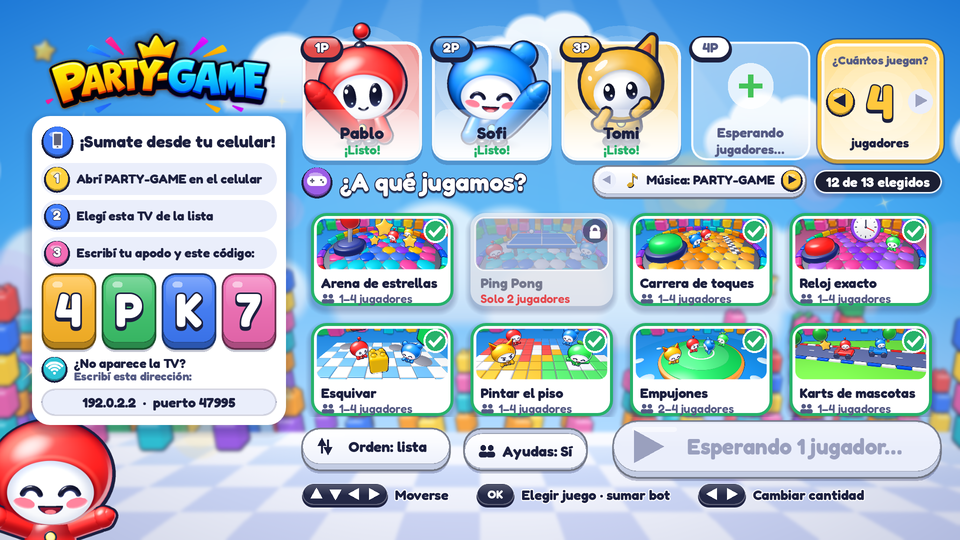
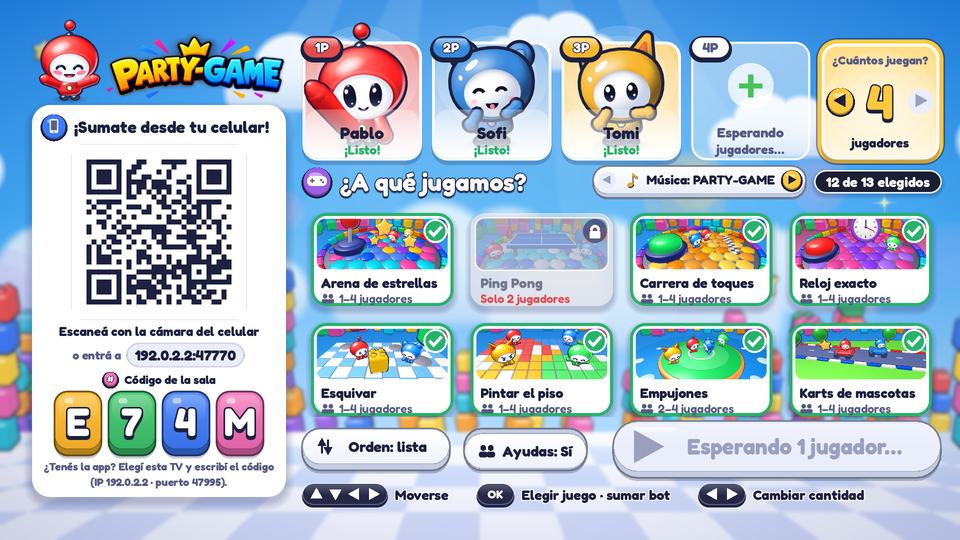
Docs del control web: ADR 0022, protocolo, firewall, seguridad, arquitectura y capturas
- docs/adr/0022-control-web.md: por qué la TV sirve la página, alternativas
  (APK, PWA, export web de Godot), seguridad, límites y verificación.
- PROTOCOL.md (transporte HTTP y cómo la página obtiene puerto y código),
  BUILD.md (jugar sin instalar nada, puertos 47770–47774 en el firewall),
  SECURITY.md (servidor HTTP, CSP, Host), ARCHITECTURE.md, PERFORMANCE.md,
  README, CLAUDE.md y skills diseno-tv / nuevo-layout.
- docs/img: lobby con el QR y capturas del control web en Chromium
  emulando iPhone (apaisado y vertical) desde tools/web_e2e.mjs.

Claude-Session: https://claude.ai/code/session_016xnHVUnW38TmAZSdvZGH7C

diff --git a/docs/adr/0022-control-web.md b/docs/adr/0022-control-web.md
@@ -1,0 +1,38 @@
+# ADR 0022 · Control web servido por la propia TV (QR, sin instalar nada)
+
+- **Estado:** Aceptada
+- **Fecha:** 2026-10-03
+
+## Contexto
+
+Para jugar, cada invitado tenía que instalar la app del celular: un APK de ~60 MB, solo Android, con "orígenes desconocidos" habilitado; en iPhone directamente no se podía. Para una juntada con 2–4 invitados y sus propios celulares (mezcla de Android y iPhone) eso es una barrera demasiado alta: la prueba real del viernes 9/10 necesita que **escanear un QR alcance**, como en Jackbox o AirConsole.
+
+La TV puede ser una PC o una Google TV con el APK como host. La red local puede no tener internet.
+
+## Decisión
+
+La **TV sirve por HTTP una página web que hace de control** y que habla **el mismo protocolo v2** (`docs/PROTOCOL.md`) por WebSocket. La app Godot del celular sigue existiendo y funcionando igual: conviven.
+
+1. **Servidor HTTP mínimo en la TV** (`host/network/web_server.gd`, `WebControllerServer`): un `TCPServer` propio en `Protocol.HTTP_PORT` (47770; si está ocupado, 47771–47774). Solo `GET`/`HEAD` de una **lista blanca fija** de archivos (`ROUTES`), más la ruta del QR (`/K7QX`), que sirve la misma página. Nunca arma rutas de disco con lo que manda el cliente. Cabeceras: `Content-Type` correcto, `X-Content-Type-Options: nosniff`, `Content-Security-Policy` (`default-src 'none'`, recursos solo `'self'`, `connect-src ws://<IP del encabezado Host, validada>:<puerto real del WebSocket>`), `Cache-Control` (`no-cache` para html/js/css, una semana para fuentes e imágenes), `Connection: close`. Límites: cabecera ≤ 4 KB (431), 5 s para mandarla, 16 conexiones a la vez, se cierra después de responder. Poll no bloqueante: lee y escribe de a pedazos en `_process`; sin conexiones cuesta un `is_connection_available()` por cuadro.
+2. **Enlace del QR**: `http://192.168.1.34:47770/K7QX` (`Protocol.web_join_url`). El código va en la ruta (sin `?`/`=`) para que el QR quede en **versión 3** (29 módulos) y se lea desde el sillón. El **puerto real del WebSocket** (puede caer en 47778–47781) **no viaja en el enlace**: la TV reemplaza `{{WS_PORT}}` en `index.html` al servirla y el JS lo lee de `<meta name="pg-ws-port">`. Lo que viaja es lo que ya se ve en la TV: estar frente a ella = ver el código.
+3. **Cliente web** (`web/index.html`, `controller.css`, `controller.js`): sin frameworks ni nada externo. Unirse (apodo guardado en `localStorage`, código prellenado desde la ruta, fichas de colores como la app), espera "¡Mirá la TV!" con selector de mascota (colores ocupados según `appearance.taken`) y resultado propio (`standing`), y los layouts `joystick`, `slider_h`, `one_button` y `joystick_ab` dibujados en `canvas` con la misma semántica que `controller/layouts/` (joystick flotante, zona muerta 0,12, 30 Hz solo si cambió + keepalive de 250 ms, multitáctil con un dedo por pieza). Reconexión automática con el token (`localStorage`, backoff 0,5→5 s, 8 intentos; al volver a la pestaña reintenta ya; al recargar la página vuelve sola a su lugar). Wake Lock, `navigator.vibrate` y sonidos cortos con WebAudio para `feedback`; "Salir" manteniendo apretado 1 s. En vertical también se juega (las piezas bajan a la mitad de abajo). Objetivo: iPhone Safari 15+ y Chrome Android.
+4. **Seguridad del cliente**: todo texto de la red va con `textContent` (equivalente a la regla "nunca BBCode"); cada mensaje entrante se valida y recorta como `Protocol.parse_*` (tipos, rangos, NaN, listas blancas de layouts, fases y tipos de feedback); lo inválido se descarta. La TV sigue siendo autoritativa: el control solo manda `axis`/`btn` (y `look` en el lobby).
+5. **Lobby de la TV**: el QR es el héroe de la columna "¡Sumate desde tu celular!" (`host/ui/widgets/join_qr.gd`): se codifica **una vez** por enlace (`addons/pmc_qr`, ~4 ms con la textura) a una textura de un píxel por módulo dibujada con filtro *nearest* a píxeles enteros por módulo (10 px a 1080p). Debajo, "Escaneá con la cámara del celular", la dirección corta para escribirla a mano (`192.168.1.34:47770`), el código en fichas y una línea para quien tiene la app. Si la TV tiene varias IP, se elige la más probable para los celulares (`WebControllerServer.sort_lan_ips`: 192.168.x, 10.x, 172.16–31.x —WSL/Hyper-V/VirtualBox—, el resto) y las demás se muestran en chico.
+6. **Archivos en el export**: viven en `res://web/` y se leen con `FileAccess` (funciona desde el proyecto y desde el APK con `web/*` en el `include_filter`). Las fuentes e imágenes van con extensión **`.bin`** (`fredoka-bold.woff2.bin`, `logo.png.bin`): Godot importaría un `.woff2` o un `.png` y el original no viajaría en el export. Además, `tools/build_web_bundle.gd` genera `host/network/web_bundle.gd` con **todos los archivos embebidos en base64**: un script siempre viaja en el APK, así que el servidor cae a esa copia si `res://web/` no está. El test `test_web_bundle_in_sync` falla si el bundle quedó viejo.
+
+## Alternativas descartadas
+
+- **Solo el APK**: 60 MB, Android únicamente, orígenes desconocidos, nada en iPhone. Queda como opción para quien ya la tiene (misma TV, mismos jugadores).
+- **PWA / página alojada en internet**: la red del living puede no tener internet, y una página en `https://` no puede abrir `ws://` hacia la TV (contenido mixto). Servirla desde la TV en `http://` evita las dos cosas.
+- **Export web de Godot del control**: ~30 MB de wasm, arranque lento en celulares viejos, problemas en Safari con hilos y audio; el control es una pantalla simple que en HTML/JS pesa 160 KB.
+- **Pasar el código por `?r=` o un `/info.json`**: el código en la ruta hace el QR más chico y el puerto inyectado en la página evita un pedido extra.
+- **Librería HTTP externa o `HTTPServer` de GDExtension**: un servidor de 300 líneas sin dependencias es más fácil de auditar y de exportar a Android.
+
+## Consecuencias
+
+- Hay un puerto más que abrir en el firewall de la PC (TCP 47770–47774), ver [BUILD.md](../BUILD.md).
+- El protocolo **no cambió** (sigue en `VERSION` 2): el control web es un cliente más. `docs/PROTOCOL.md` suma la sección de transporte HTTP.
+- La página solo ofrece lo que el navegador permite: en iPhone no vibra, Wake Lock requiere Safari 16.4+ (antes, la pantalla puede apagarse si el juego no se toca), y los `ws://` solo funcionan porque la página también es `http://` (nunca servir el control por `https` sin pasar el WebSocket a `wss`).
+- Si se cambia algo en `web/`, hay que regenerar el bundle (`godot --headless --path . -s res://tools/build_web_bundle.gd`); el test lo recuerda.
+- Las mascotas del control web son una versión dibujada en canvas (cabeza, cuerpo y el accesorio de cada estilo), no las 3D horneadas: alcanza para que cada jugador se reconozca (color + 1P–4P + accesorio). Servir PNG de las 3D queda para después si vale la pena (pesarían más que todo el resto).
+- Verificación: `tests/run_tests.gd` (servidor, enlace, bundle, lobby, HostMain) y `tools/web_e2e.mjs` (Chromium emulando iPhone/Pixel contra la TV real, toques multitáctiles, reconexión y dos rondas). El QR de la captura de la TV se decodificó con dos lectores independientes (OpenCV y jsQR), también reducido a 720p y 480p.

diff --git a/docs/ARCHITECTURE.md b/docs/ARCHITECTURE.md
@@ -3,18 +3,22 @@
 ## Visión general
 
 ```
-┌──────────────┐   WebSocket (Wi-Fi local)   ┌───────────────────────────────┐
-│ Celular 1..4 │ ──── input (30/seg) ──────► │ TV · HostMain                  │
-│ ControllerMain│ ◄─── layout / fase ──────── │  ├─ HostServer  (red, validación)│
-└──────────────┘                              │  ├─ DiscoveryBeacon (anuncio UDP)│
-       ▲                                      │  ├─ Tournament (puntos, rondas)  │
-       │                                      │  ├─ BotDriver (bots en la TV)    │
-       │                                      │  ├─ Pantallas (host/ui/)         │
-       │                                      │  └─ MiniGame activo (lógica)     │
-       └──────── anuncio UDP broadcast ────── └───────────────────────────────┘
+┌────────────────────┐   WebSocket (Wi-Fi local)   ┌─────────────────────────────────────┐
+│ Celular 1..4       │ ──── input (30/seg) ──────► │ TV · HostMain                        │
+│  app ControllerMain│ ◄─── layout / fase ──────── │  ├─ HostServer  (WebSocket, validación)│
+│  o navegador (web/)│                              │  ├─ WebControllerServer (HTTP: sirve  │
+└────────────────────┘                              │  │   la página del control, ADR 0022) │
+       ▲        ▲                                   │  ├─ DiscoveryBeacon (anuncio UDP)     │
+       │        └──── GET http://IP:47770/K7QX ──── │  ├─ Tournament (puntos, rondas)       │
+       │              (QR del lobby)                │  ├─ BotDriver (bots en la TV)         │
+       │                                            │  ├─ Pantallas (host/ui/)              │
+       │                                            │  └─ MiniGame activo (lógica)          │
+       └──────── anuncio UDP broadcast ──────────── └─────────────────────────────────────┘
 ```
 
 **Un solo proyecto, dos modos.** `app/boot.gd` decide al arrancar si el dispositivo es la TV (`HostMain`) o un control (`ControllerMain`). Esto evita mantener dos apps y garantiza que ambas usen exactamente el mismo `Protocol`.
+
+**Y un tercer cliente sin instalar nada.** La TV también sirve por HTTP una página (`web/`) que es el mismo control en HTML/JS: el invitado escanea el QR del lobby con la cámara, se abre el navegador y juega. Habla el mismo protocolo por WebSocket; para la TV es un control más ([ADR 0022](adr/0022-control-web.md)).
 
 ## Conceptos clave
 
@@ -82,7 +86,7 @@ Los efectos se sintetizan al iniciar (`core/audio/sfx.gd`); los de navegación d
 Lo que no cambia no se redibuja en cada frame: el fondo y el campo de los juegos van en capas propias que se dibujan una vez, y las figuras se dibujan en lote. El celular baja a 30 fps y modo de bajo consumo mientras espera. Medición, presupuestos y detalles en [PERFORMANCE.md](PERFORMANCE.md) y [ADR 0006](adr/0006-rendimiento-capas-cacheadas.md).
 
 ### Reconexión con token
-Al unirse, cada jugador recibe un token aleatorio de 128 bits. Si el celular se bloquea o se corta el Wi-Fi, el cliente reintenta con backoff exponencial (0,5 s, 1 s, 2 s… hasta 5 s) presentando el token, y recupera **el mismo lugar, color e id**. El host reserva el lugar 30 segundos.
+Al unirse, cada jugador recibe un token aleatorio de 128 bits. Si el celular se bloquea o se corta el Wi-Fi, el cliente reintenta con backoff exponencial (0,5 s, 1 s, 2 s… hasta 5 s) presentando el token, y recupera **el mismo lugar, color e id**. El host reserva el lugar 30 segundos. El control web hace lo mismo (token en `localStorage`): incluso si se cierra la pestaña y se vuelve a abrir, entra directo a su lugar.
 
 *Ejemplo:* Sofi está jugando, le entra una llamada y la app pasa a segundo plano. Su paleta queda quieta (input neutro), y cuando vuelve a la app sigue siendo la jugadora 2 sin tocar nada.
 
@@ -100,6 +104,9 @@ host/bots/
 ├─ bot_driver.gd     BotDriver: cada paso, bot_view() -> bots -> parse_input -> on_input
 └─ bot_match.gd      BotMatch: un juego entero sin pantalla (tests y simulate.gd)
 ```
+
+### Control web (sin app)
+`WebControllerServer` (`host/network/web_server.gd`) es un servidor HTTP de ~300 líneas: solo `GET`/`HEAD` de una lista fija de archivos de `res://web/` (y la ruta del QR, `/K7QX`), con `Content-Type`, `nosniff` y una CSP que solo permite la propia TV y el WebSocket a la misma IP. Al servir `index.html` inyecta el puerto real del WebSocket. `web/controller.js` replica la lógica de `ControllerMain` y `controller/layouts/` (mismos ritmos de envío, zona muerta, reconexión y validación de lo que llega) y dibuja los controles en `canvas`. Las fuentes e imágenes van como `.bin` (Godot no las importa y viajan en el export) y, por si acaso, todo `web/` está embebido en `WebBundle` (generado). El lobby muestra el QR (`JoinQr`, generado una vez como textura) y la dirección corta. Ver [ADR 0022](adr/0022-control-web.md).
 
 ### Minijuegos como plugins
 Cada juego hereda de `MiniGame` y se registra en `MiniGameRegistry.GAMES`. El lobby, la red y los demás juegos no se modifican. Ver [ADDING_A_MINIGAME.md](ADDING_A_MINIGAME.md).
@@ -128,5 +135,5 @@ Registradas en [adr/](adr/):
 ## Límites conocidos (v0.1)
 
 - WebSocket va sobre TCP: si se pierde un paquete, los siguientes esperan. En Wi-Fi doméstico normal es imperceptible (la latencia se ve en pantalla del control). Si hiciera falta, la capa de red está aislada para migrar a UDP/ENet sin tocar los juegos.
-- Sin QR todavía (Godot no genera QR nativamente): está en el roadmap.
+- El QR del lobby abre el **control web**; la app del celular todavía no lee ese enlace (se une por la lista de TVs o la IP).
 - Sin relay en la nube: TV y celulares deben estar en la misma red.

diff --git a/docs/BUILD.md b/docs/BUILD.md
@@ -5,9 +5,29 @@
 - Godot **4.4.x** estándar.
 - Plantillas de exportación: en Godot, **Editor → Administrar plantillas de exportación → Descargar**.
 
+## Jugar con los celulares de los invitados, sin instalar nada (control web)
+
+Es la forma recomendada para una juntada ([ADR 0022](adr/0022-control-web.md)): sirve para **Android y iPhone**, no hay que instalar nada y pesa 160 KB.
+
+1. Abrí la TV (PC con `-- --host`, o la Google TV con el APK) con la TV y los celulares en la **misma Wi-Fi**.
+2. En el lobby, cada invitado **escanea el QR con la cámara del celular** (la app Cámara de iPhone y de Android lo reconoce sola; si no, Google Lens). Se abre el navegador con el control y el código ya puesto: escribe su apodo y toca **¡Unirme!**.
+3. Si alguien no puede escanear: en el navegador escribe la dirección que muestra la TV debajo del QR (ej. `192.168.1.34:47770`) y después el código de 4 letras.
+4. El celular queda con su color, su mascota (se elige ahí mismo) y su 1P–4P. Si se bloquea la pantalla o se cierra la pestaña, al volver a abrirla recupera su lugar solo (30 segundos de gracia, como la app).
+
+**Firewall de Windows (si la TV es la PC):** además del WebSocket hay que dejar entrar el puerto del control web. Ver la tabla de puertos más abajo; en PowerShell como administrador:
+```powershell
+New-NetFirewallRule -DisplayName "PARTY-GAME TV (web)" -Direction Inbound -Protocol TCP -LocalPort 47770-47774 -Action Allow -Profile Private
+```
+
+**Si el navegador dice que no puede conectar:** misma Wi-Fi (no la de invitados), red de la PC como *privada*, y probá abrir `http://<IP>:47770/` desde el celular. Si la página carga pero dice "No encontramos la TV", lo bloqueado es el puerto del WebSocket (47777–47781). Una VPN activa en el celular suele cortar la red local.
+
+**Para probarlo en la PC sin celular:** abrí la TV y entrá desde el navegador de la PC a la dirección que muestra el lobby (o `http://127.0.0.1:47770/`). Con las herramientas de desarrollador en modo celular (Ctrl+Shift+M en Chrome) se ve como en un teléfono. La prueba automática con navegadores reales es `node tools/web_e2e.mjs --out=/tmp/e2e` (necesita Playwright con Chromium, `xvfb-run` y `godot` en el PATH).
+
+Si editás algo en `web/`, regenerá la copia embebida que viaja en el APK: `godot --headless --path . -s res://tools/build_web_bundle.gd` (el test `test_web_bundle_in_sync` lo recuerda).
+
 ## Probar con tu celular Android (APK de prueba)
 
-No hace falta Android Studio: GitHub arma el APK solo. La **TV es tu PC con Windows** y el **control es tu celular**, los dos en la **misma Wi-Fi**.
+No hace falta Android Studio: GitHub arma el APK solo. La **TV es tu PC con Windows** y el **control es tu celular**, los dos en la **misma Wi-Fi**. (Alternativa sin instalar nada: el control web de arriba.)
 
 ### 1. Bajar el APK
 
@@ -34,7 +54,8 @@ Qué usa el juego (por si configurás el firewall a mano):
 
 | Qué | Protocolo y puerto | Sentido en la PC |
 |---|---|---|
-| Conexión del celular a la TV | TCP **47777** (si está ocupado, 47778–47781; el lobby muestra el real) | Entrante: hay que permitirlo |
+| Conexión del celular a la TV (app y control web) | TCP **47777** (si está ocupado, 47778–47781; el lobby muestra el real) | Entrante: hay que permitirlo |
+| Página del control web (QR del lobby) | TCP **47770** (si está ocupado, 47771–47774; el QR y la dirección del lobby usan el real) | Entrante: hay que permitirlo |
 | Anuncio "acá hay una TV" | UDP **47778**, broadcast | Saliente: Windows lo deja salir por defecto |
 
 ### 4. Conectar el celular
@@ -51,6 +72,7 @@ Qué usa el juego (por si configurás el firewall a mano):
 3. Si con la IP escrita tampoco conecta, es el firewall: **Panel de control → Firewall de Windows Defender → Permitir una aplicación a través del firewall → Cambiar configuración** → buscá todas las líneas **Godot** y marcá **Privada**. (Si alguna vez tocaste *Cancelar* en el aviso, Windows guardó una regla de **bloqueo** para Godot, y el bloqueo gana sobre cualquier regla que permita el puerto.) Alternativa en PowerShell como administrador:
    ```powershell
    New-NetFirewallRule -DisplayName "PARTY-GAME TV" -Direction Inbound -Protocol TCP -LocalPort 47777-47781 -Action Allow -Profile Private
+   New-NetFirewallRule -DisplayName "PARTY-GAME TV (web)" -Direction Inbound -Protocol TCP -LocalPort 47770-47774 -Action Allow -Profile Private
    ```
 4. Si la IP escrita conecta pero la lista sigue vacía: la red filtra el broadcast (Wi-Fi de invitados, "aislamiento de clientes/AP isolation" del router, algunas redes de oficina). Jugá con la IP escrita (hay que volver a escribirla cada vez que abrís la app).
 5. PC por cable y celular por Wi-Fi funciona si los dos salen del **mismo router**. Una VPN activa en la PC o en el celular suele cortar la red local: desactivala para jugar.
@@ -110,6 +132,6 @@ Requiere una Mac con Xcode y cuenta de Apple Developer.
 ## Prueba de red mínima (checklist)
 
 1. TV y celulares en la **misma Wi-Fi** (no la de invitados: suele aislar dispositivos).
-2. La TV aparece sola en la lista del celular. Si no aparece, escribir la IP que muestra la TV.
+2. Un celular escanea el QR del lobby y la página del control carga; si no carga, escribir `http://<IP>:47770/` a mano. Con la app, la TV aparece sola en la lista; si no aparece, escribir la IP que muestra la TV.
 3. Mirar la latencia arriba a la derecha del control: **< 60 ms excelente, 60–100 ms aceptable, > 100 ms revisar la red**.
 4. Bloquear el celular 5 segundos y volver: debe reconectarse solo como el mismo jugador.

diff --git a/docs/SECURITY.md b/docs/SECURITY.md
@@ -13,11 +13,15 @@ Un party game en la red de una casa. Lo que queremos evitar:
 | Trampa en el juego | Control modificado que "toca" 100 veces por segundo | Host autoritativo + límites propios del juego (ej. 14 toques/seg en Carrera) |
 | Inyección en pantalla | Apodo `[img]http://…[/img]` | Nombres sin caracteres de control, mostrados solo en `Label`/`draw_string` |
 | Apariencia maliciosa | `look` con color `"#000"`, `1e999` o en plena partida para confundir | Solo índices de una paleta fija, validados y recortados; solo en el lobby; 8 `look`/seg; nunca toca puntos ni puestos (ADR 0007) |
+| Servidor HTTP del control web como puerta de entrada | `GET /../project.godot`, `%2e%2e`, métodos raros, cabeceras gigantes, conexiones que no mandan nada | Lista blanca fija de rutas → archivo (nunca se arma una ruta con lo que pide el cliente); solo `GET`/`HEAD` (405); cabecera ≤ 4 KB (431); 5 s para mandarla; 16 conexiones a la vez; cierre tras responder; respuestas 400/404 sin detalles; nunca lanza errores por datos externos ([ADR 0022](adr/0022-control-web.md)) |
+| Página del control manipulada o inyección en el navegador | Un apodo o `hint` con `<script>`; una página que hable con otro servidor | Todo texto de la red se pinta con `textContent` (nunca HTML); CSP `default-src 'none'` con recursos solo de la TV y `connect-src` solo al WebSocket de la misma IP y puerto; `nosniff`; sin scripts ni estilos en línea; sin `eval`. Un test revisa que el JS no use `innerHTML` |
+| Encabezado `Host` falso | `Host: evil.com` para que la CSP apunte a otro lado | Se acepta solo una IP (v4 o v6 entre corchetes) o un nombre `[A-Za-z0-9.-]`; si no, 400 |
 
 ## Decisiones conscientes
 
-- **Tráfico sin cifrar (ws://) en la red local.** Lo que viaja son posiciones de joystick y un apodo; no hay datos personales ni credenciales. Cifrar en LAN requeriría certificados en la TV, con mucha complejidad y poco beneficio. **Cuando exista el relay en la nube, ese tramo va obligatoriamente por `wss://` (TLS).**
-- **Sin cuentas ni datos personales.** Solo un apodo y la apariencia de la mascota (índices de color y estilo) guardados localmente en el celular (`user://settings.cfg`).
+- **Tráfico sin cifrar (ws:// y http://) en la red local.** Lo que viaja son posiciones de joystick, un apodo y una página estática; no hay datos personales ni credenciales. Cifrar en LAN requeriría certificados en la TV, con mucha complejidad y poco beneficio; además una página `https://` no podría abrir `ws://` hacia la TV. **Cuando exista el relay en la nube, ese tramo va obligatoriamente por `wss://` (TLS).**
+- **Sin cuentas ni datos personales.** Solo un apodo y la apariencia de la mascota (índices de color y estilo) guardados localmente en el celular (`user://settings.cfg` en la app; `localStorage` en el control web, junto con el token de la última sala para volver al mismo lugar).
+- **El código de sala viaja en el QR** (`http://IP:47770/K7QX`). No cambia el modelo: para escanearlo hay que estar frente a la TV, igual que para leer las fichas. El anuncio UDP sigue sin incluirlo.
 
 ## Privacidad y tiendas
 

diff --git a/README.md b/README.md
@@ -17,6 +17,11 @@ Juegos cortos para **1 a 4 jugadores en el sillón**: la **TV es la pantalla** y
 | ![Pantalla para unirse](docs/img/ctrl_join.png) | ![Control con joystick](docs/img/ctrl_joy.png) |
 | ![Esperando que empiece el juego](docs/img/ctrl_wait.png) | |
 
+| Control web: escaneás el QR de la TV y jugás desde el navegador, sin instalar nada | |
+|---|---|
+| ![Lobby de la TV con el QR](docs/img/lobby.png) | ![Unirse desde el navegador del celular](docs/img/control_web_join.png) |
+| ![Esperando con el selector de mascota](docs/img/control_web_lobby.png) | ![Joystick + A/B en el navegador](docs/img/control_web_joystick_ab.png) |
+
 > Capturas generadas automáticamente desde el propio proyecto (host + controles reales conectados por WebSocket) con `tools/capture_screens.gd`. La CI las vuelve a generar en cada PR (artefacto `capturas`).
 
 ## Estado
@@ -24,7 +29,8 @@ Juegos cortos para **1 a 4 jugadores en el sillón**: la **TV es la pantalla** y
 **v0.2 · Modo competencia y sistema visual.** Incluye:
 
 - Conexión TV ↔ celulares por Wi-Fi local, con código de sala, reconexión automática y medición de latencia.
-- Descubrimiento automático de la TV en la red (con IP manual como respaldo).
+- **Control web**: la TV muestra un QR; el invitado lo escanea con la cámara (Android o iPhone) y juega desde el navegador, sin instalar nada. Mismo protocolo que la app ([ADR 0022](docs/adr/0022-control-web.md)).
+- Descubrimiento automático de la TV en la red (con IP manual como respaldo) para la app del celular.
 - **Modo competencia**: en el lobby se elige **cuántos juegan** (1–4) y **qué minijuegos entran**; después de cada juego, **resumen por jugador** con puesto, puntaje y puntos ganados; al final, **podio**. Puntos por posición (1° 100 · 2° 70 · 3° 50 · 4° 30). Cada celular muestra **su propio resultado** (puesto, puntos y total).
 - Minijuegos:
   - **Arena de estrellas** (1–4) · joystick
@@ -58,7 +64,7 @@ Juegos cortos para **1 a 4 jugadores en el sillón**: la **TV es la pantalla** y
      godot --path . -- --host          # ventana "TV"
      godot --path . -- --controller    # ventana "celular"
      ```
-4. En la ventana del control: elegí la TV de la lista (o escribí `127.0.0.1`), poné un apodo y el código que muestra la TV.
+4. En la ventana del control: elegí la TV de la lista (o escribí `127.0.0.1`), poné un apodo y el código que muestra la TV. O abrí en el navegador la dirección que muestra el lobby debajo del QR (en la misma PC, `http://127.0.0.1:47770/`): es el control web.
 5. En la TV elegí cuántos juegan (◀ ▶ sobre el selector), marcá los juegos con Enter y apretá **¡A jugar!**. Con el mouse arrastrás como si fuera el dedo. Escape = botón "Atrás" (menú de pausa).
 6. **Solo, sin segundo control:** en el lobby, pará sobre un lugar libre y apretá Enter → "Sumar bot" (Fácil, Normal o Difícil). Así probás cualquier juego con 1 persona + bots.
 

diff --git a/docs/PROTOCOL.md b/docs/PROTOCOL.md
@@ -6,10 +6,22 @@ Fuente de verdad en código: [`core/protocol/protocol.gd`](../core/protocol/prot
 
 | | Valor |
 |---|---|
-| Juego | WebSocket, mensajes de **texto** JSON, puerto `47777` |
+| Juego | WebSocket, mensajes de **texto** JSON, puerto `47777` (si está ocupado, 47778–47781; el lobby y la página del control web saben cuál) |
 | Descubrimiento | UDP broadcast a `255.255.255.255:47778`, 1 por segundo |
+| Control web | HTTP en el puerto `47770` (si está ocupado, 47771–47774): la TV sirve la página que hace de control ([ADR 0022](adr/0022-control-web.md)) |
 | Tamaño máximo | 512 bytes por mensaje (más grande = se descarta) |
 | Campos obligatorios | `v` (versión, número) y `type` (string) en **todos** los mensajes |
+
+### Control web (HTTP + el mismo WebSocket)
+
+El control web es **otro cliente del mismo protocolo**: habla exactamente los mensajes de abajo por WebSocket. Lo único nuevo es cómo llega al celular:
+
+1. El lobby de la TV muestra un QR con `http://<IP de la TV>:47770/<CÓDIGO>` (ej. `http://192.168.1.34:47770/K7QX`, `Protocol.web_join_url`). El código va en la **ruta** (sin `?` ni `=`) para que el QR sea chico (versión 3, 29 módulos). Quien no puede escanear escribe `192.168.1.34:47770` en el navegador y pone el código a mano.
+2. El servidor HTTP de la TV (`host/network/web_server.gd`) solo responde `GET`/`HEAD` de una lista fija: `/` e `/index.html`, `/controller.css`, `/controller.js`, `/fredoka-bold.woff2`, `/fredoka-semibold.woff2`, `/logo.png`, `/icon.svg` y la ruta del QR (`/K7QX`: 4 caracteres del alfabeto del código, `Protocol.parse_web_join_path`), que sirve la misma página. Cualquier otra cosa: `404`; otro método: `405`; cabecera mayor a 4 KB: `431`; sin encabezado `Host` válido: `400`.
+3. Al servir `index.html`, la TV reemplaza `{{WS_PORT}}` por el **puerto real del WebSocket** (`<meta name="pg-ws-port">`). La página se conecta a `ws://<mismo host de la página>:<ese puerto>` y manda `join` con `room` = el código de la ruta (o el tipeado), `name`, los `color`/`style` guardados y `token` si guardó uno de esa sala en `localStorage`.
+4. La `Content-Security-Policy` de la respuesta solo permite recursos de la propia TV y `connect-src ws://<IP>:<puerto del WebSocket>`: la página no puede hablar con nada más.
+
+**Sin cambios de `VERSION`**: la TV no distingue un control web de la app.
 
 **Compatibilidad:** los tipos desconocidos se ignoran (permite agregar mensajes sin romper versiones viejas). Un cambio incompatible sube `VERSION`, y el host rechaza a los controles con otra versión con `bad_version`, que el celular muestra como "Actualizá ambas apps".
 

diff --git a/docs/PERFORMANCE.md b/docs/PERFORMANCE.md
@@ -23,6 +23,8 @@ xvfb-run -a -s "-screen 0 1920x1080x24" godot --path . --rendering-driver opengl
 
 Por defecto el benchmark agrega `Sfx` y `Music` como la TV: cada escena cambia de pista (fundido cruzado durante el calentamiento) y un `go` por segundo dispara el *ducking*. El presupuesto del audio es **≤ 0,3 ms de p95 de Scripts** frente a `--no-audio` ([ADR 0015](adr/0015-musica-y-mezcla.md)); el OGG se decodifica en el hilo de audio y no cuenta en Scripts.
 
+**Control web** ([ADR 0022](adr/0022-control-web.md)): el servidor HTTP cuesta un `is_connection_available()` por cuadro cuando nadie está cargando la página (medido: ~0,5 µs por `poll()` sin conexiones) y lee/escribe de a 16 KB por conexión y cuadro mientras sirve (160 KB en total por celular, una sola vez). El QR del lobby es una textura generada una vez por enlace (~4 ms, incluida la textura) y se dibuja con un solo `draw_texture_rect`.
+
 **Ayuda de los eliminados** (ADR 0020): sin ayudas en curso no cuesta nada (la capa `TvHelpOverlay` no dibuja ni redibuja). Peor caso medido (el 4P ayudando sin parar, 400 frames, xvfb): Esquivar p95 de Scripts 2,4 → 6,7 ms y 33 → 48 draw calls; Empujones 3,3 → 7,9 ms y 90 → 101 draw calls (burbuja y salvavidas en un `ShapeBatch`: un draw call cada uno). En una partida real las ayudas son pocas (2 por eliminado, 3 s cada una).
 
 Escenas: `lobby` (4 jugadores), `game_intro` ("¿Cómo se juega?"), `round_summary`, `final` (podio con confeti), **cada juego del registry** con su máximo de jugadores (hasta 4) e inputs que cambian todo el tiempo (si un juego termina antes de juntar los frames, se reinicia), y el celular a 2340×1080: `ctrl_join`, `ctrl_wait` y `ctrl_joy`. Un juego nuevo en el registry entra solo. Los juegos que cambian mucho con el tiempo se miden además adelantados (`LATE_SCENES` en el script): `sumo_tarde` es Empujones a los 20 s, con la isla achicándose (con `--only=sumo` se miden las dos).

diff --git a/.claude/skills/diseno-tv/SKILL.md b/.claude/skills/diseno-tv/SKILL.md
@@ -18,6 +18,8 @@ description: Sistema visual y reglas de UI de Party Games (TV y celular). Usar a
 | `host/ui/widgets/` | Solo TV: `GameCard`, `Stepper`, `SeatCard`, `ScorePedestal`, `ScoreBar` (marcador del resumen con el arte de los juegos), `NamePlate` (chapita [1P | nombre]), `PointsBadge` (placa "+70"), `Confetti`, `KeyHint`, `Transition` (barrido de bloques entre pantallas) |
 | `host/ui/widgets/tv_*.gd` | Pantallas: `TvButton` (botón de juguete con bisel e ícono), `TvLogoTitle` (título "de logo"), `TvReadyCard` ("¡Listo!" de la intro), `TvToasts` (avisos se sumó/se desconectó/volvió), `TvDeviceCard` (selector TV/celular) |
 | `host/ui/*_screen.gd` | Pantallas: lobby, intro "¿Cómo se juega?", resumen de ronda, podio, pausa |
+| `host/ui/widgets/join_qr.gd` | QR del control web en el lobby (ADR 0022): se genera una vez como textura; tamaño en `UiTheme.LOBBY_QR_SIZE` |
+| `web/controller.css`, `web/controller.js` | Control web (navegador del celular): mismos tokens que `UiTheme` copiados en `:root` del CSS y en el JS (si cambiás un color acá, cambialo allá); botones de juguete en CSS y controles en `canvas`. Tras tocar `web/`, regenerar `host/network/web_bundle.gd` |
 
 ## Reglas
 

diff --git a/.claude/skills/nuevo-layout/SKILL.md b/.claude/skills/nuevo-layout/SKILL.md
@@ -17,6 +17,7 @@ Un layout es **qué dibuja el celular** y **qué manda** (`axis` y `btn`). Agreg
 2. **Celular**:
    - Control nuevo en `controller/layouts/`, con el estilo de `big_button.gd` (multitouch, `Haptics.buzz("tap")` al apretar, colores desde `UiTheme`).
    - Caso nuevo en `ControllerMain._on_layout_changed` y lectura del valor en `ControllerMain._process`.
+   - **Control web** (`web/controller.js`, ADR 0022): sumarlo a `PROTO.LAYOUTS` y `LAYOUT_HINTS`, dibujarlo en el objeto `pad` (`partAt`, `down/move/up`, `current`, `draw…`) con la misma semántica, y regenerar el bundle (`godot --headless --path . -s res://tools/build_web_bundle.gd`). Probarlo con toques reales en `tools/web_e2e.mjs` (orden `layout <nombre>` de `tools/web_e2e_host.gd`).
 3. **Inclinación (acelerómetro):** leer `Input.get_accelerometer()`, filtrar el ruido (promedio móvil), convertirlo a `axis` en -1..1 y recortarlo **en el celular y en la TV**. Ofrecer "calibrar" (tomar la posición actual como centro).
 4. **Tarjeta del lobby:** ícono en `GameCard._draw_control_icon` y nombre en `GameCard.CONTROL_NAMES`.
 5. **Capturas:** nombre en `CONTROL_SHOTS` de `tools/capture_screens.gd`.

diff --git a/CLAUDE.md b/CLAUDE.md
@@ -23,6 +23,7 @@ Siempre correr los tests antes de dar un cambio por terminado.
 
 - `core/protocol/protocol.gd` — **contrato único** de mensajes. Cualquier cambio: actualizar `docs/PROTOCOL.md` y subir `VERSION` si rompe compatibilidad.
 - `host/network/host_server.gd` — servidor WebSocket, autoritativo. Valida todo lo que entra.
+- `host/network/web_server.gd` + `web/` — control web (ADR 0022): la TV sirve por HTTP (puerto 47770) una página que habla el mismo protocolo; el lobby muestra el QR. Tras tocar `web/`, regenerar `host/network/web_bundle.gd` con `tools/build_web_bundle.gd` (un test lo exige). Prueba con navegadores reales: `node tools/web_e2e.mjs --out=/tmp/e2e`.
 - `host/host_main.gd` — orquesta las fases (lobby → playing → results → …). No tiene lógica de puntos ni UI propia.
 - `host/tournament/tournament.gd` — modo competencia: rondas y puntos por posición (lógica pura, testeada).
 - `host/ui/` — pantallas (lobby, resumen de ronda, podio, pausa) y componentes de la TV.
